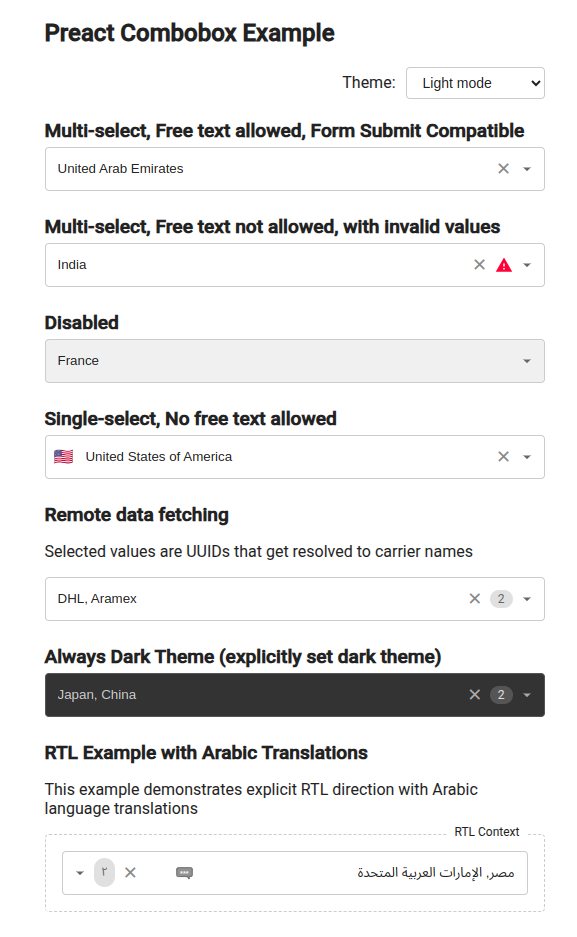
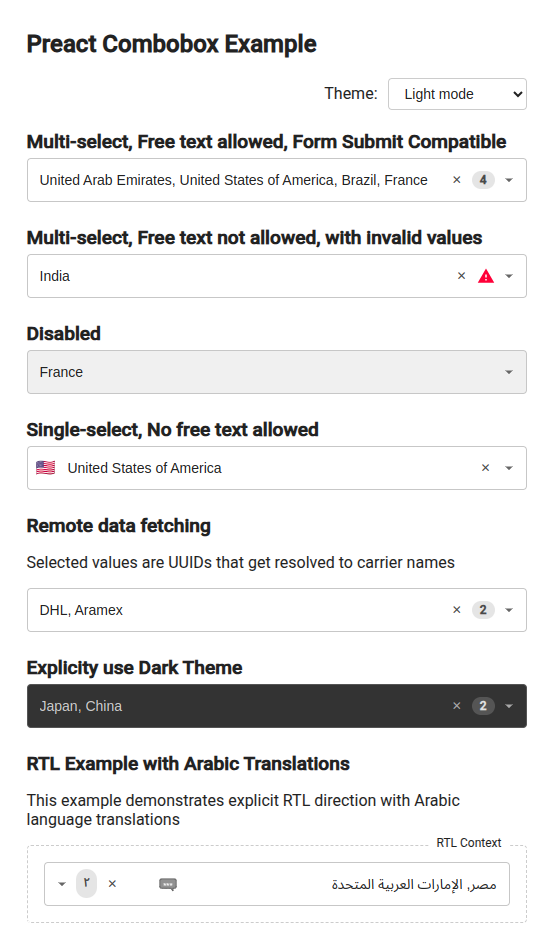
v0.1.2 - Light theme color contrast checks

diff --git a/dist/cjs/PreactCombobox.css b/dist/cjs/PreactCombobox.css
@@ -2,25 +2,25 @@
 :root {
   --preact-combobox-light-bg: #fff;
   --preact-combobox-light-text: #222;
-  --preact-combobox-light-border: #ccc;
+  --preact-combobox-light-border: #c7c7c7;
   --preact-combobox-light-field-bg: #fff;
   --preact-combobox-light-field-disabled-bg: #f0f0f0;
-  --preact-combobox-light-badge-bg: #e0e0e0;
-  --preact-combobox-light-badge-text: #666;
+  --preact-combobox-light-badge-bg: #e5e5e5;
+  --preact-combobox-light-badge-text: #4a4a4a;
   --preact-combobox-light-placeholder: #222;
   --preact-combobox-light-options-bg: #fff;
   --preact-combobox-light-options-border: #ccc;
   --preact-combobox-light-option-hover-bg: #f0f0f0;
   --preact-combobox-light-option-active-bg: #e0e0e0;
-  --preact-combobox-light-value-text: #666;
+  --preact-combobox-light-value-text: #4a4a4a;
   --preact-combobox-light-tooltip-bg: #000;
   --preact-combobox-light-tooltip-text: #fff;
-  --preact-combobox-light-clear-button-color: #888;
+  --preact-combobox-light-clear-button-color: #4a4a4a;
   --preact-combobox-light-chevron-fill: #666;
   --preact-combobox-light-checkbox-border: #ccc;
   --preact-combobox-light-checkbox-selected-bg: #222;
   --preact-combobox-light-checkbox-selected-border: #222;
-  --preact-combobox-light-checkbox-selected-text: white;
+  --preact-combobox-light-checkbox-selected-text: #fff;
   --preact-combobox-light-shadow: rgba(0, 0, 0, 0.1);
   --preact-combobox-light-hover-clear-bg: rgba(0, 0, 0, 0.1);
   --preact-combobox-dark-bg: #333;
@@ -174,12 +174,14 @@
   background: var(--preact-combobox-badge-bg);
   border-radius: 12px;
   padding: 2px 8px;
-  font-size: 12px;
   color: var(--preact-combobox-badge-text);
+  font-size: 12px;
+  font-weight: 700;
   white-space: nowrap;
   margin: 0 3px;
 }
 .PreactCombobox-input {
+  font-size: 0.875rem;
   flex: 1;
   width: auto;
   border: none;
@@ -202,7 +204,7 @@
   padding: 4px 8px;
   box-sizing: border-box;
   border-radius: 4px;
-  font-size: 12px;
+  font-size: 0.75rem;
   white-space: nowrap;
   pointer-events: none;
   transition: opacity 0.2s ease-in-out;
@@ -235,7 +237,7 @@
   background: none;
   border: none;
   cursor: pointer;
-  font-size: 18px;
+  font-size: 12px;
   color: var(--preact-combobox-clear-button-color);
   display: flex;
   align-items: center;
@@ -326,7 +328,7 @@
   width: 100%;
 }
 .PreactCombobox-optionValue {
-  font-size: 12px;
+  font-size: 0.75rem;
   color: var(--preact-combobox-value-text);
   margin-inline-start: 8px;
 }

diff --git a/dist/esm/PreactCombobox.css b/dist/esm/PreactCombobox.css
@@ -2,25 +2,25 @@
 :root {
   --preact-combobox-light-bg: #fff;
   --preact-combobox-light-text: #222;
-  --preact-combobox-light-border: #ccc;
+  --preact-combobox-light-border: #c7c7c7;
   --preact-combobox-light-field-bg: #fff;
   --preact-combobox-light-field-disabled-bg: #f0f0f0;
-  --preact-combobox-light-badge-bg: #e0e0e0;
-  --preact-combobox-light-badge-text: #666;
+  --preact-combobox-light-badge-bg: #e5e5e5;
+  --preact-combobox-light-badge-text: #4a4a4a;
   --preact-combobox-light-placeholder: #222;
   --preact-combobox-light-options-bg: #fff;
   --preact-combobox-light-options-border: #ccc;
   --preact-combobox-light-option-hover-bg: #f0f0f0;
   --preact-combobox-light-option-active-bg: #e0e0e0;
-  --preact-combobox-light-value-text: #666;
+  --preact-combobox-light-value-text: #4a4a4a;
   --preact-combobox-light-tooltip-bg: #000;
   --preact-combobox-light-tooltip-text: #fff;
-  --preact-combobox-light-clear-button-color: #888;
+  --preact-combobox-light-clear-button-color: #4a4a4a;
   --preact-combobox-light-chevron-fill: #666;
   --preact-combobox-light-checkbox-border: #ccc;
   --preact-combobox-light-checkbox-selected-bg: #222;
   --preact-combobox-light-checkbox-selected-border: #222;
-  --preact-combobox-light-checkbox-selected-text: white;
+  --preact-combobox-light-checkbox-selected-text: #fff;
   --preact-combobox-light-shadow: rgba(0, 0, 0, 0.1);
   --preact-combobox-light-hover-clear-bg: rgba(0, 0, 0, 0.1);
   --preact-combobox-dark-bg: #333;
@@ -174,12 +174,14 @@
   background: var(--preact-combobox-badge-bg);
   border-radius: 12px;
   padding: 2px 8px;
-  font-size: 12px;
   color: var(--preact-combobox-badge-text);
+  font-size: 12px;
+  font-weight: 700;
   white-space: nowrap;
   margin: 0 3px;
 }
 .PreactCombobox-input {
+  font-size: 0.875rem;
   flex: 1;
   width: auto;
   border: none;
@@ -202,7 +204,7 @@
   padding: 4px 8px;
   box-sizing: border-box;
   border-radius: 4px;
-  font-size: 12px;
+  font-size: 0.75rem;
   white-space: nowrap;
   pointer-events: none;
   transition: opacity 0.2s ease-in-out;
@@ -235,7 +237,7 @@
   background: none;
   border: none;
   cursor: pointer;
-  font-size: 18px;
+  font-size: 12px;
   color: var(--preact-combobox-clear-button-color);
   display: flex;
   align-items: center;
@@ -326,7 +328,7 @@
   width: 100%;
 }
 .PreactCombobox-optionValue {
-  font-size: 12px;
+  font-size: 0.75rem;
   color: var(--preact-combobox-value-text);
   margin-inline-start: 8px;
 }

diff --git a/lib/PreactCombobox.css b/lib/PreactCombobox.css
@@ -3,25 +3,25 @@
   /* Light theme variables */
   --preact-combobox-light-bg: #fff;
   --preact-combobox-light-text: #222;
-  --preact-combobox-light-border: #ccc;
+  --preact-combobox-light-border: #c7c7c7;
   --preact-combobox-light-field-bg: #fff;
   --preact-combobox-light-field-disabled-bg: #f0f0f0;
-  --preact-combobox-light-badge-bg: #e0e0e0;
-  --preact-combobox-light-badge-text: #666;
+  --preact-combobox-light-badge-bg: #e5e5e5;
+  --preact-combobox-light-badge-text: #4a4a4a;
   --preact-combobox-light-placeholder: #222;
   --preact-combobox-light-options-bg: #fff;
   --preact-combobox-light-options-border: #ccc;
   --preact-combobox-light-option-hover-bg: #f0f0f0;
   --preact-combobox-light-option-active-bg: #e0e0e0;
-  --preact-combobox-light-value-text: #666;
+  --preact-combobox-light-value-text: #4a4a4a;
   --preact-combobox-light-tooltip-bg: #000;
   --preact-combobox-light-tooltip-text: #fff;
-  --preact-combobox-light-clear-button-color: #888;
+  --preact-combobox-light-clear-button-color: #4a4a4a;
   --preact-combobox-light-chevron-fill: #666;
   --preact-combobox-light-checkbox-border: #ccc;
   --preact-combobox-light-checkbox-selected-bg: #222;
   --preact-combobox-light-checkbox-selected-border: #222;
-  --preact-combobox-light-checkbox-selected-text: white;
+  --preact-combobox-light-checkbox-selected-text: #fff;
   --preact-combobox-light-shadow: rgba(0, 0, 0, 0.1);
   --preact-combobox-light-hover-clear-bg: rgba(0, 0, 0, 0.1);
 
@@ -189,13 +189,15 @@
   background: var(--preact-combobox-badge-bg);
   border-radius: 12px;
   padding: 2px 8px;
-  font-size: 12px;
   color: var(--preact-combobox-badge-text);
+  font-size: 12px;
+  font-weight: 700;
   white-space: nowrap;
   margin: 0 3px;
 }
 
 .PreactCombobox-input {
+  font-size: 0.875rem;
   flex: 1;
   width: auto;
   border: none;
@@ -222,7 +224,7 @@
   padding: 4px 8px;
   box-sizing: border-box;
   border-radius: 4px;
-  font-size: 12px;
+  font-size: 0.75rem;
   white-space: nowrap;
   pointer-events: none;
   transition: opacity 0.2s ease-in-out;
@@ -258,7 +260,7 @@
   background: none;
   border: none;
   cursor: pointer;
-  font-size: 18px;
+  font-size: 12px;
   color: var(--preact-combobox-clear-button-color);
   display: flex;
   align-items: center;
@@ -367,7 +369,7 @@
 }
 
 .PreactCombobox-optionValue {
-  font-size: 12px;
+  font-size: 0.75rem;
   color: var(--preact-combobox-value-text);
   margin-inline-start: 8px;
 }

diff --git a/README.md b/README.md
@@ -361,6 +361,13 @@ function CustomRenderingExample() {
 }
 ```
 
+## About Accessibility
+
+Some attempt has been made to make the component accessible in the following dimensions:
+- Keyboard navigation
+- Basic screen reader test only on Orca (v46.1). Help me out to test on more software and platforms.
+- Default colors for light mode theme (passes WCAG and APCA contrast)
+
 ## Run Demo
 
 ```bash

diff --git a/TODO.md b/TODO.md
@@ -1,5 +1,5 @@
 Priorities
-- Merge singleSelectIcon and `icon` prop into icon generator function
+- Make dark theme pass APCA contrast checker
 - Docs
 
 Nice to have
